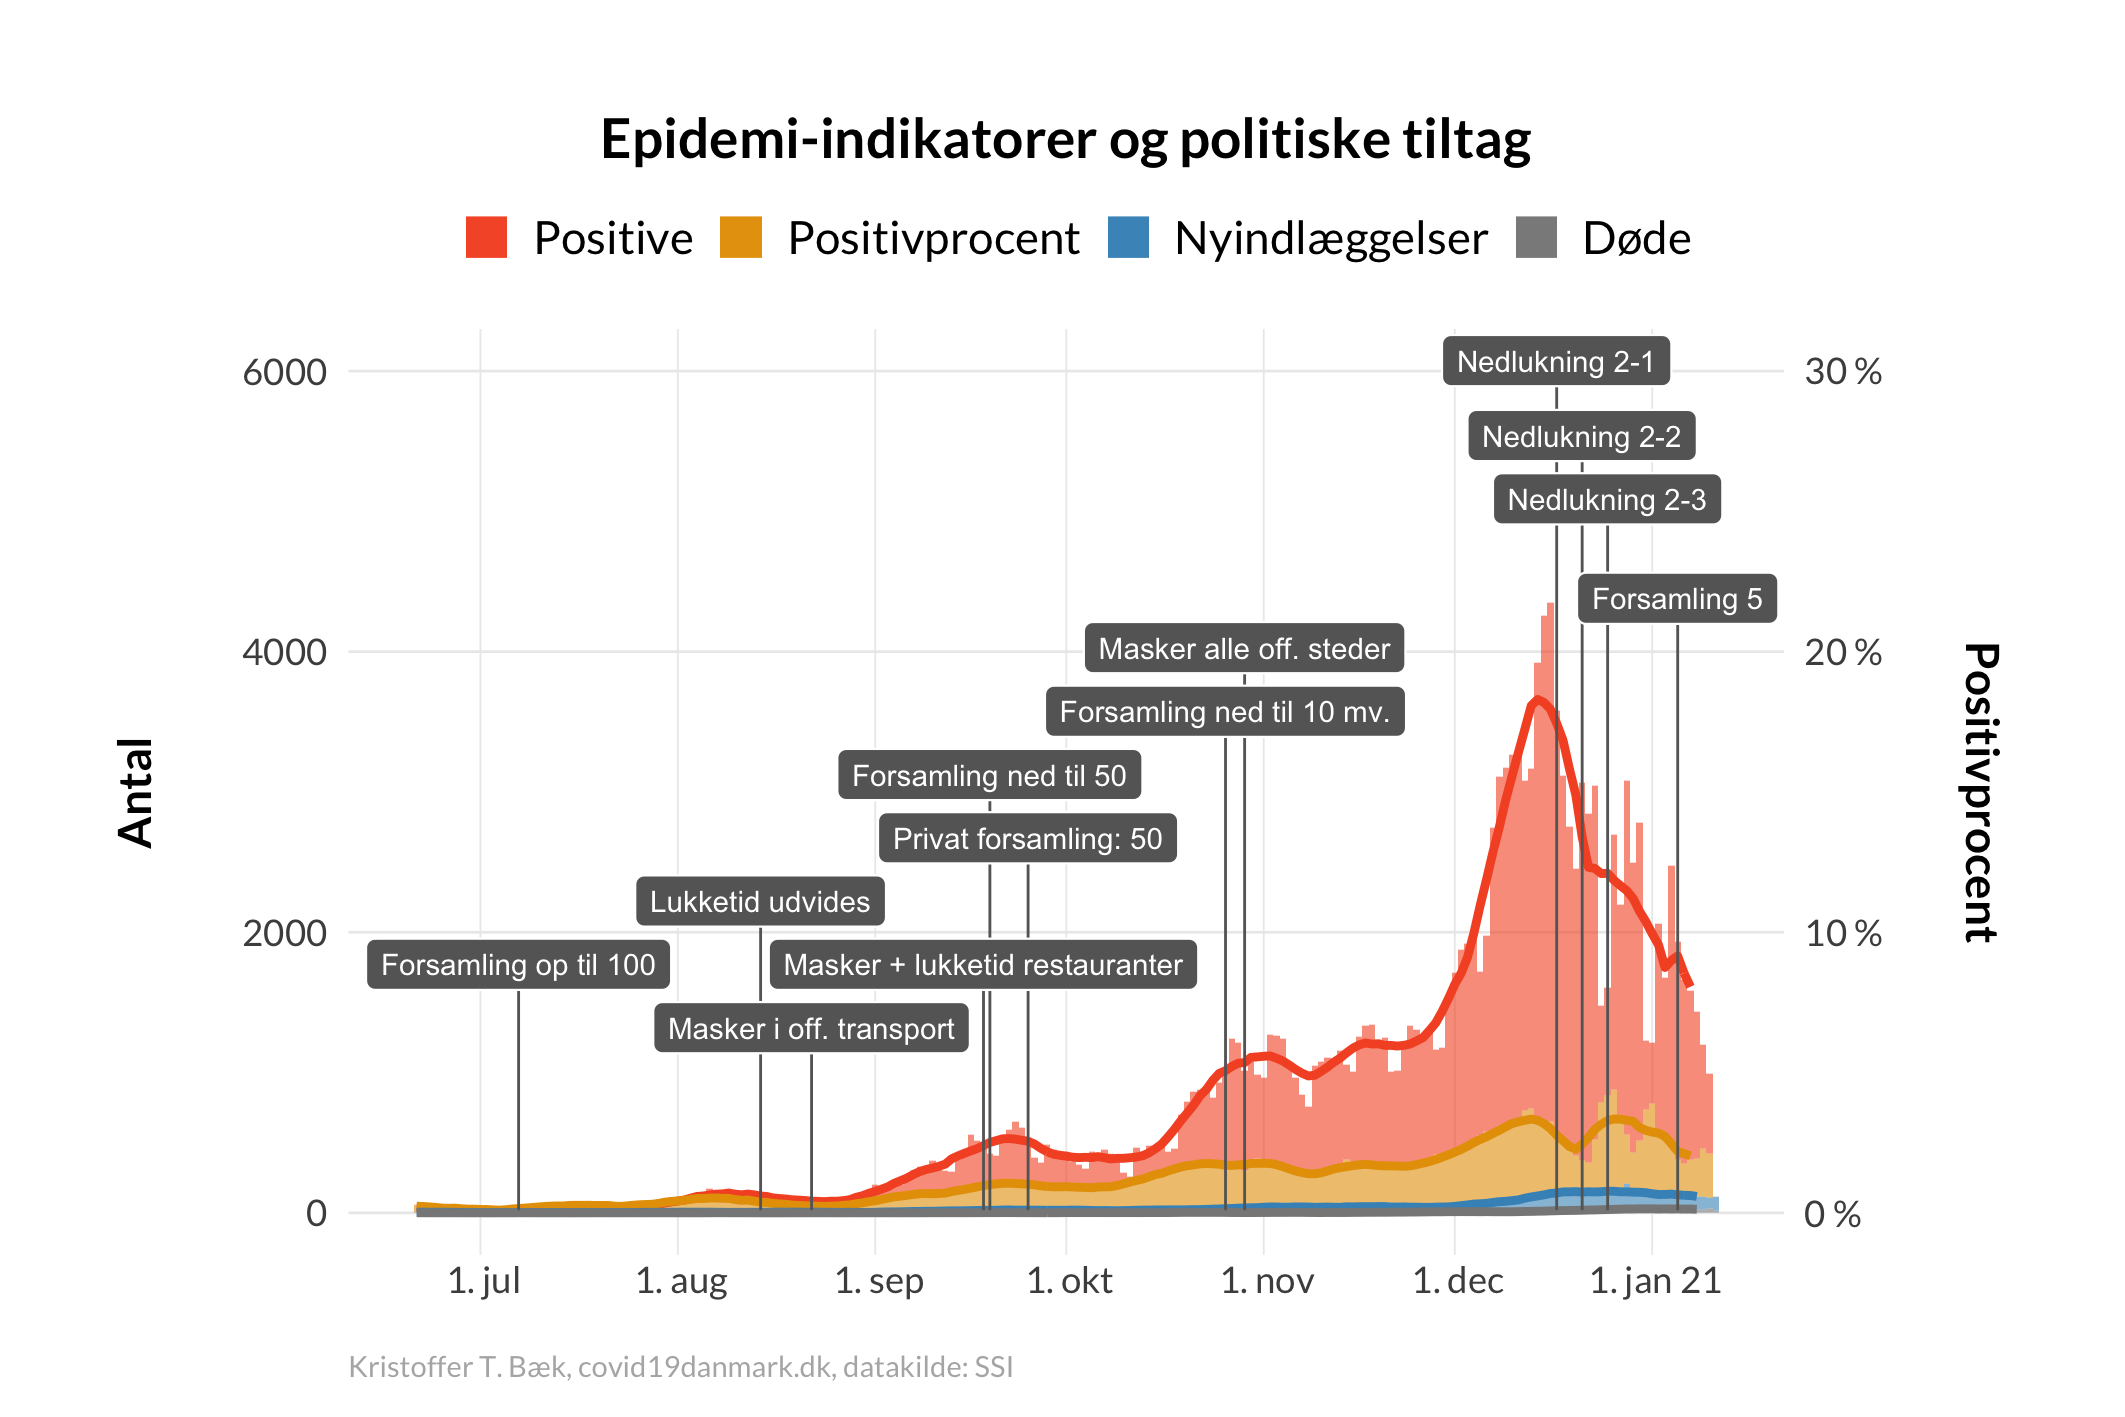
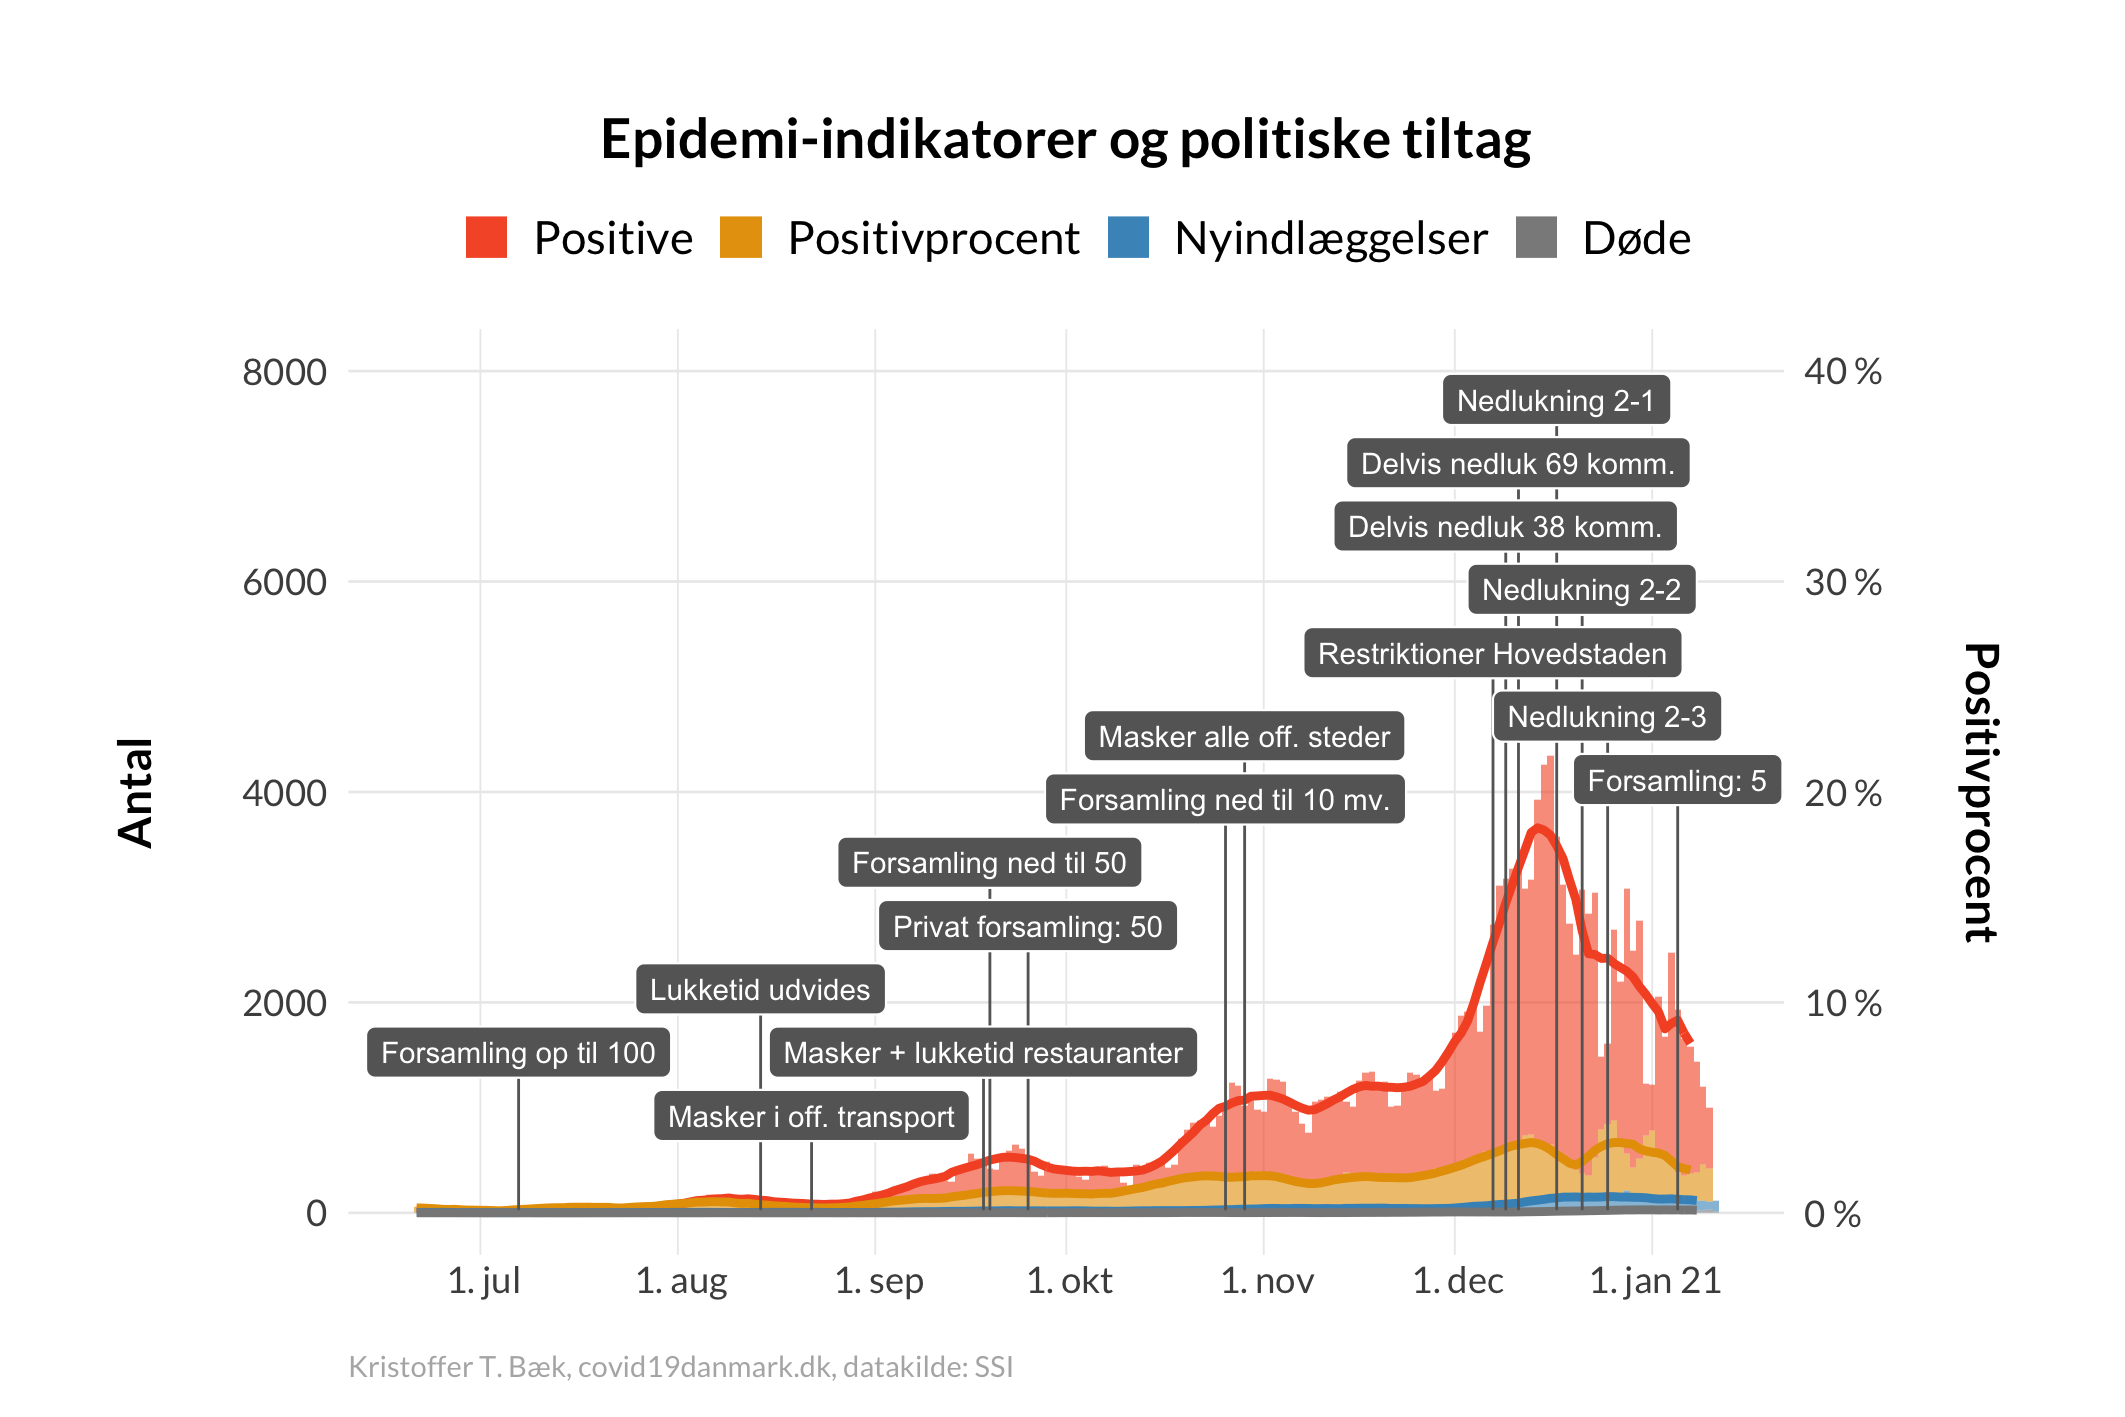
Update plots

diff --git a/tiltag.md b/tiltag.md
@@ -28,7 +28,10 @@
 | 26. oktober | Forsamlingsloft sænkes til 10, forbud mod alkoholsalg efter kl 22, m.fl. |
 | 29. oktober | Mundbind alle indendørs steder i det offentlige rum |
 | 9. november | Nedlukning af Nordjylland (cluster-5) |
-| 7. december | Ensretning af butik/centre. Forsamlingsloft sænkes til 10 for unge i hovedstaden |
+| 7. december | Restriktioner i 17 hovedstadskommuner: Ensretning af gågader/butik/centre,  forsamlingsloft sænkes til 10 for børn- og ungeaktiviteter, opfordring til at unge testes, m.fl.  |
+| 9. december | Restriktioner i 38 kommuner: Hovedstadsrestriktioner + lukning af serveringssteder og kultur- og idrætsfaciliteter + fjernundervisning af store elever.  |
+| 11. december | Restriktioner i 69 kommuner: Som ovenstående.  |
+| 16. december | Restriktioner i alle kommuner: Som ovenstående.  |
 | 17. december | Nedlukning af storcentre, stormagasiner og butiksarkader |
 | 21. december | Nedlukning af liberale erhverv |
 | 25. december | Nedlukning af detailhandlen. Apoteker og dagligvarebutikker holdes åbent |
